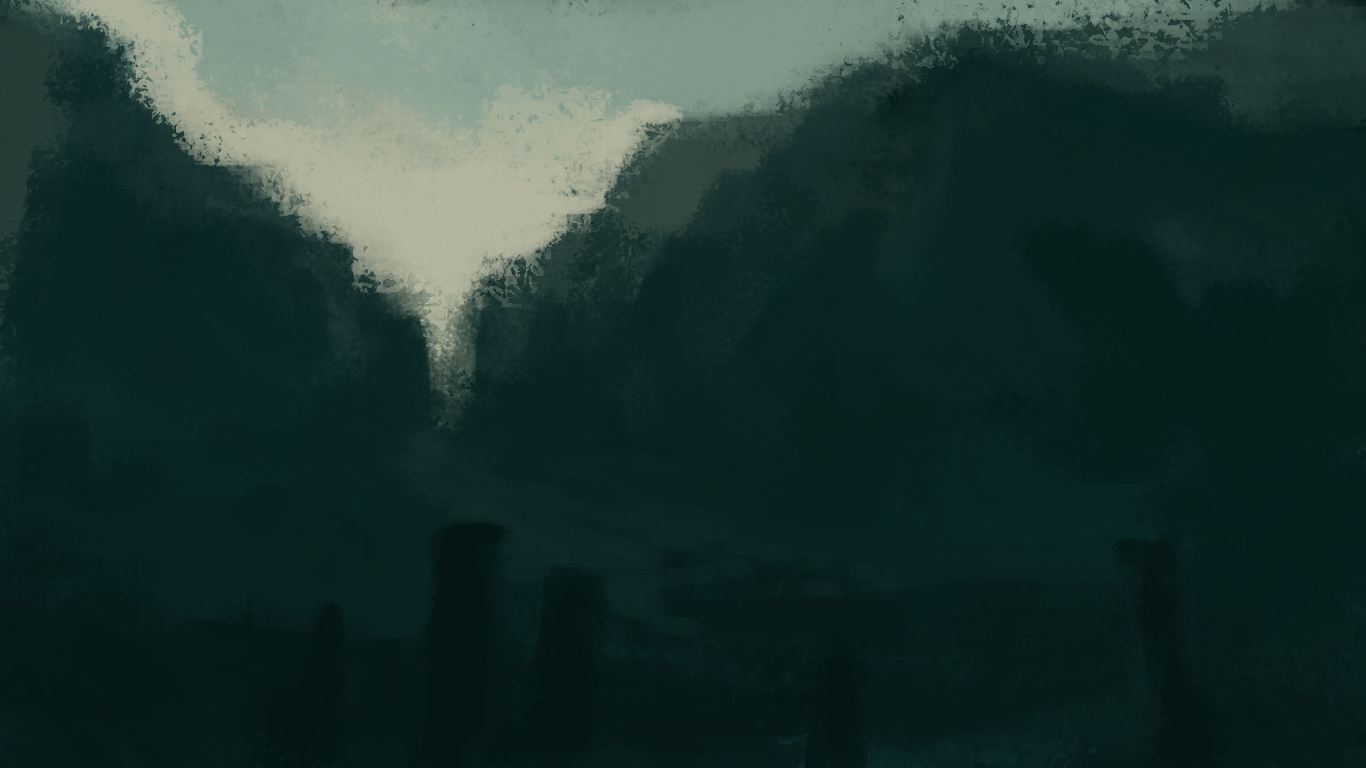
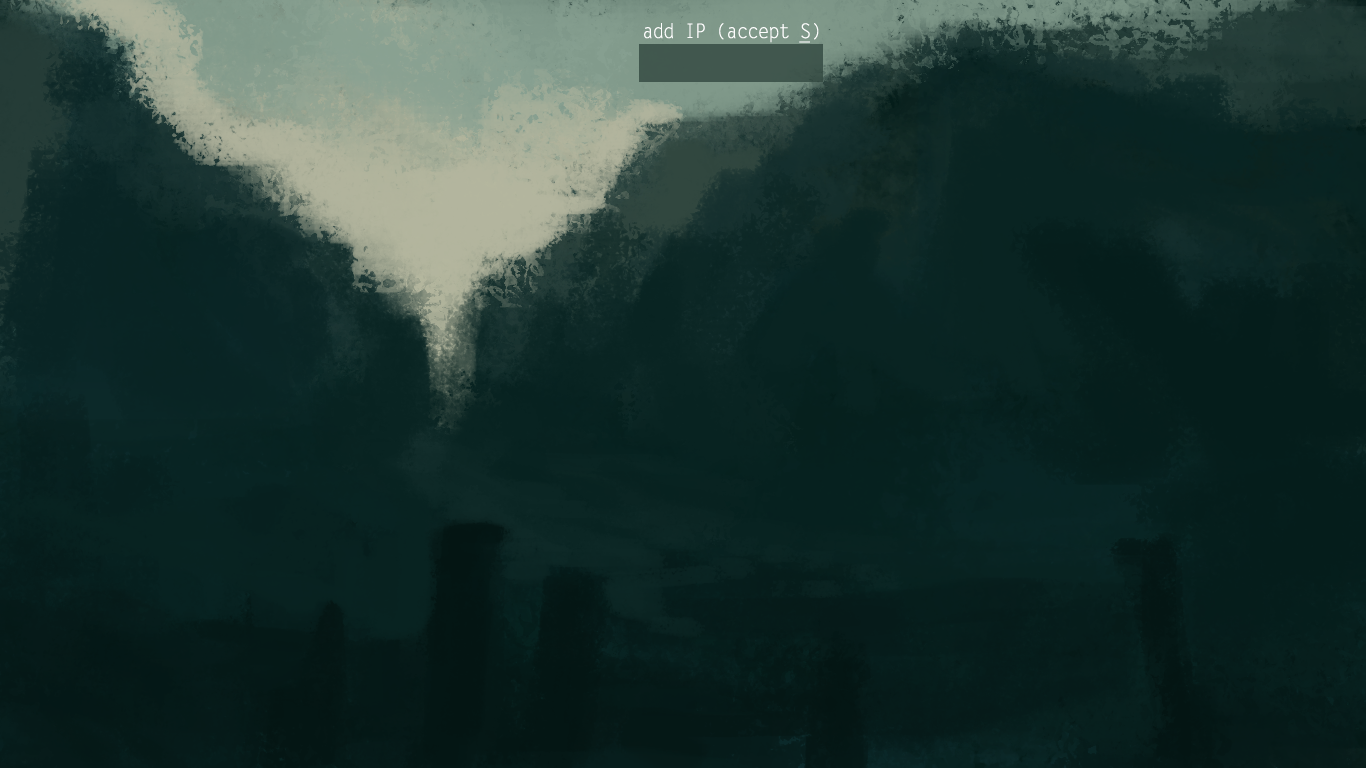
inserting IP,Game&Player constr.,the very last textures

Changed region(s): [[0.4612, 0.0312, 0.6149, 0.125]]

diff --git a/core/src/catan/network/CatanNetwork.java b/core/src/catan/network/CatanNetwork.java
@@ -18,6 +18,13 @@ public class CatanNetwork {
 
 	private String nickname;
 	private LinkedList<String> addresses = new LinkedList<String>();									// nick i ip z hamachi
+	
+
+
+	public void addAddress(String address) {
+		addresses.add(address);
+	}
+
 	private CatanCommunication game;
 	
 	public List<ObserverPeers> peersObservers = new LinkedList<ObserverPeers>();						// They observe Communication
@@ -31,8 +38,8 @@ public class CatanNetwork {
 	public void 	readAddresses()
 	{
 		// TODO read addresses from a file, and saving to a file?
-		//addresses.add("127.0.0.1");
-		addresses.add("25.50.105.234");
+		addresses.add("127.0.0.1");
+		//addresses.add("25.50.105.234");
 	}
 	public void 	initNetwork() throws IOException
 	{

diff --git a/core/src/representation/Gameplay.java b/core/src/representation/Gameplay.java
@@ -2,8 +2,6 @@ package representation;
 
 
 import java.util.ArrayList;
-import java.util.List;
-import java.util.Random;
 
 import com.badlogic.gdx.Gdx;
 import com.badlogic.gdx.InputProcessor;
